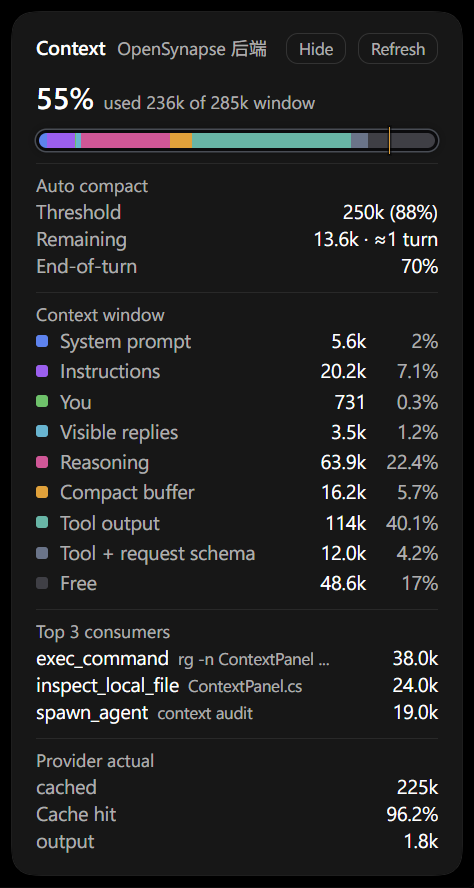
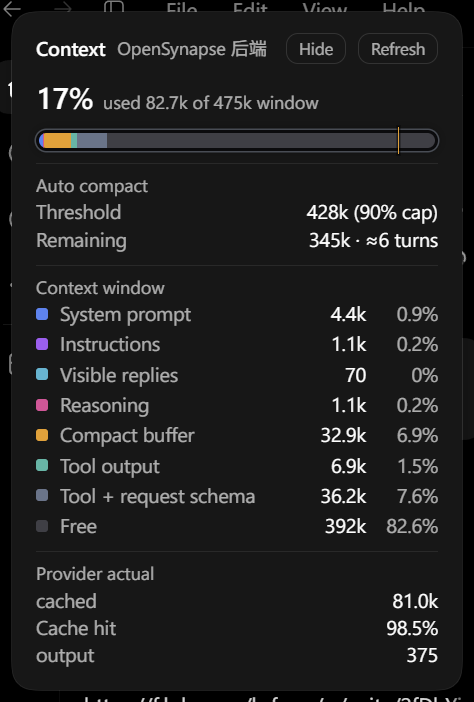
Remove Top 3 context consumers for v1.2.3

diff --git a/context-panel.js b/context-panel.js
@@ -15,7 +15,7 @@
  */
 (() => {
   "use strict";
-  const VERSION = "35";
+  const VERSION = "36";
   const PANEL_ID = "codex-context-panel";
   const helperConfig = __HELPER_CONFIG__;
   if (location.href.includes('avatar-overlay') || location.href.includes('quick-chat')) return;
@@ -43,7 +43,6 @@
       cap: "90% cap",
       atLimit: "at limit",
       turns: (n) => `≈${n} ${n === 1 ? "turn" : "turns"}`,
-      top: "Top 3 consumers",
       unavailable: "Context helper unavailable",
       provider: "Provider actual",
       cached: "cached", cacheHit: "Cache hit", output: "output",
@@ -63,7 +62,6 @@
       cap: "90% 上限",
       atLimit: "已到阈值",
       turns: (n) => `≈${n} 轮`,
-      top: "占用 Top 3",
       unavailable: "无法连接上下文助手",
       provider: "Provider 实测",
       cached: "缓存", cacheHit: "缓存命中", output: "输出",
@@ -75,11 +73,6 @@
   const t = () => copy[locale()];
 
   const num = (n) => (n == null ? "—" : n >= 1000 ? (n / 1000).toFixed(n >= 100000 ? 0 : 1) + "k" : String(n));
-  const shortDetail = (detail) => {
-    const value = String(detail || "");
-    if (/^(?:[A-Za-z]:[\\/]|\\\\|\/)/.test(value)) return value.split(/[\\/]/).filter(Boolean).at(-1) || value;
-    return value;
-  };
 
   // ---- native official number -------------------------------------------
   const nativeUsage = () => {
@@ -148,15 +141,6 @@
     [data-codex-context-panel] .ccp-kv { display: flex; justify-content: space-between; gap: 10px; }
     [data-codex-context-panel] .ccp-kv span:first-child { color: var(--color-text-secondary, rgba(255,255,255,.65)); }
     [data-codex-context-panel] .ccp-kv span:last-child { font-variant-numeric: tabular-nums; }
-    [data-codex-context-panel] .ccp-consumer-head { display: flex; align-items: baseline; gap: 6px; min-width: 0; }
-    [data-codex-context-panel] .ccp-consumer-head .ccp-name {
-      color: var(--color-text-primary, #fff); flex: none; max-width: 48%;
-      overflow: hidden; text-overflow: ellipsis; white-space: nowrap;
-    }
-    [data-codex-context-panel] .ccp-detail {
-      color: var(--color-text-secondary, rgba(255,255,255,.65)); font-size: 11px; flex: 1;
-      min-width: 0; overflow: hidden; text-overflow: ellipsis; white-space: nowrap;
-    }
   `;
   // Replace any earlier copy so a re-injection picks up new styles.
   document.getElementById(style.id)?.remove();
@@ -236,9 +220,6 @@
     section.appendChild(legend);
     details.appendChild(section);
 
-    const top = el("div", "ccp-section ccp-top");
-    details.appendChild(top);
-
     const provider = el("div", "ccp-section ccp-provider");
     provider.appendChild(el("div", "ccp-sub", t().provider));
     details.appendChild(provider);
@@ -246,7 +227,7 @@
     card.appendChild(details);
 
     return {
-      card, details, collapse, sub, big, label, meter, mark, legend, auto, top, provider,
+      card, details, collapse, sub, big, label, meter, mark, legend, auto, provider,
     };
   };
 
@@ -266,8 +247,6 @@
       refs.label.textContent = text.unavailable;
       refs.legend.replaceChildren();
       refs.auto.replaceChildren(el("div", "ccp-sub", text.auto));
-      refs.top.replaceChildren();
-      refs.top.hidden = true;
       refs.mark.style.display = "none";
       refs.provider.replaceChildren(el("div", "ccp-sub", text.provider));
       return;
@@ -335,21 +314,6 @@
       row.appendChild(el("span", "ccp-val", num(band.tokens)));
       row.appendChild(el("span", "ccp-pct", band.pct + "%"));
       refs.legend.appendChild(row);
-    }
-
-    const topItems = Array.isArray(data.topItems) ? data.topItems.filter(item => item && item.tokens > 0) : [];
-    refs.top.replaceChildren(el("div", "ccp-sub", text.top));
-    refs.top.hidden = topItems.length === 0;
-    for (const item of topItems.slice(0, 3)) {
-      const head = el("div", "ccp-consumer-head");
-      head.appendChild(el("span", "ccp-name", locale() === "zh" ? (item.zh || item.label) : (item.label || item.zh)));
-      if (item.detail) {
-        const detail = el("span", "ccp-detail", shortDetail(item.detail));
-        detail.title = item.detail;
-        head.appendChild(detail);
-      }
-      head.appendChild(el("span", "ccp-val", num(item.tokens)));
-      refs.top.appendChild(head);
     }
 
     refs.provider.replaceChildren(el("div", "ccp-sub", text.provider));
@@ -426,7 +390,6 @@
       mark: card.querySelector(".ccp-mark"),
       legend: card.querySelector(".ccp-legend"),
       auto: card.querySelector(".ccp-auto"),
-      top: card.querySelector(".ccp-top"),
       provider: card.querySelector(".ccp-provider"),
     };
     applyCollapsed();

diff --git a/ContextPanel.cs b/ContextPanel.cs
@@ -33,13 +33,11 @@ internal static class ContextPanel
     private static readonly (string Key, string Label, string Zh, string Color) FreeBand = ("free", "Free", "剩余", "#3f3f46");
     private static readonly ConcurrentDictionary<string, ParseState> ParseCache = new(StringComparer.OrdinalIgnoreCase);
 
-    internal sealed record Turn(long? Ordinal, string Band, double Tokens, string? SubBand = null,
-        string? ToolName = null, string? ToolDetail = null, string? CallId = null, bool IsOutput = false);
+    internal sealed record Turn(long? Ordinal, string Band, double Tokens, string? SubBand = null);
     internal sealed record KeptTurn(long? Ordinal, string Body, string Band);
     internal sealed record SessionMeta(string Id, string Cwd, string BaseInstructions);
     internal sealed record Usage(long? InputTokens, long? CachedInputTokens, long? OutputTokens, long? ReasoningOutputTokens, long? ContextWindow, long? TotalTokens);
     internal sealed record Compaction(long? Ordinal, int? WindowNumber, int RetainedUsers, int ReplacementItems, List<KeptTurn> Kept);
-    private sealed record ToolMeta(string Name, string Detail);
     private sealed class ParseState
     {
         internal long Offset;
@@ -47,7 +45,6 @@ internal static class ContextPanel
         internal SessionMeta? Meta;
         internal readonly List<Turn> Turns = [];
         internal readonly List<Compaction> Compactions = [];
-        internal readonly Dictionary<string, ToolMeta> ToolCalls = new(StringComparer.Ordinal);
         internal readonly Queue<double> Growth = new();
         internal Usage? Usage;
         internal long? LastTotalTokens;
@@ -60,7 +57,6 @@ internal static class ContextPanel
             Meta = null;
             Turns.Clear();
             Compactions.Clear();
-            ToolCalls.Clear();
             Growth.Clear();
             Usage = null;
             LastTotalTokens = null;
@@ -74,11 +70,10 @@ internal static class ContextPanel
     internal sealed record ContextProvider(long? InputTokens, long? CachedInputTokens, long? OutputTokens, long? ReasoningOutputTokens,
         long? ContextWindow, long? UsedTokens, double? UsedPct);
     internal sealed record ContextCompaction(long? Ordinal, int? WindowNumber, int RetainedUsers, int ReplacementItems);
-    internal sealed record ContextSlice(string Key, string Label, string Zh, long Tokens, string? Detail = null);
+    internal sealed record ContextSlice(string Key, string Label, string Zh, long Tokens);
     internal sealed record ContextSnapshot(string ThreadId, string Name, string UpdatedAt, IReadOnlyList<ContextBand> Bands,
-        IReadOnlyList<ContextSlice> InjectBands, IReadOnlyList<ContextSlice> TopItems, ContextProvider Provider,
-        IReadOnlyList<ContextCompaction> Compactions, int CompactionCount, long UntrackedTokens, double? RecentGrowthTokens,
-        bool HasConversation);
+        IReadOnlyList<ContextSlice> InjectBands, ContextProvider Provider, IReadOnlyList<ContextCompaction> Compactions,
+        int CompactionCount, long UntrackedTokens, double? RecentGrowthTokens, bool HasConversation);
 
     internal static string SessionsRoot() => Path.Combine(Environment.GetFolderPath(Environment.SpecialFolder.UserProfile), ".codex", "sessions");
 
@@ -142,7 +137,6 @@ internal static class ContextPanel
             bands.Add(new ContextBand(FreeBand.Key, FreeBand.Label, FreeBand.Zh, free,
                 Math.Round(free * 100.0 / windowTokens, 1), FreeBand.Color));
         var injectBands = InjectBreakdown(live, bands.FirstOrDefault(band => band.Key == "inject"));
-        var topItems = TopToolOutputs(live, scaled.GetValueOrDefault("tool"));
         var cwd = rollout.Meta?.Cwd ?? "";
         var name = cwd.Length == 0 ? "" : Path.GetFileName(cwd.TrimEnd('\\', '/'));
         return new ContextSnapshot(
@@ -151,7 +145,6 @@ internal static class ContextPanel
             LastWrite(path),
             bands,
             injectBands,
-            topItems,
             new ContextProvider(provider?.InputTokens, provider?.CachedInputTokens, provider?.OutputTokens,
                 provider?.ReasoningOutputTokens, window, used,
                 window is > 0 ? Math.Round(used * 100.0 / window.Value, 1) : null),
@@ -300,31 +293,6 @@ internal static class ContextPanel
         var drift = slices.Sum(slice => slice.Tokens) - injectBand.Tokens;
         if (drift != 0)
             slices[0] = slices[0] with { Tokens = Math.Max(0, slices[0].Tokens - drift) };
-        return slices;
-    }
-
-    internal static IReadOnlyList<ContextSlice> TopToolOutputs(IReadOnlyList<Turn> live, long toolTokens)
-    {
-        var raw = live.Where(turn => turn.Band == "tool" && turn.IsOutput && turn.Tokens > 0)
-            .GroupBy(turn => string.IsNullOrEmpty(turn.CallId) ? $"turn:{turn.Ordinal}" : turn.CallId!, StringComparer.Ordinal)
-            .Select(group =>
-            {
-                var first = group.First();
-                return (Key: group.Key, Name: first.ToolName ?? "Tool", first.ToolDetail, Tokens: group.Sum(turn => turn.Tokens));
-            })
-            .ToList();
-        var weight = raw.Sum(item => item.Tokens);
-        if (toolTokens <= 0 || weight <= 0) return [];
-        var slices = raw
-            .Select(item => new ContextSlice($"tool:{item.Key}", item.Name, item.Name,
-                (long)Math.Round(item.Tokens * toolTokens / weight, MidpointRounding.AwayFromZero),
-                string.IsNullOrWhiteSpace(item.ToolDetail) ? null : item.ToolDetail))
-            .Where(item => item.Tokens > 0)
-            .OrderByDescending(item => item.Tokens)
-            .Take(3)
-            .ToList();
-        var over = slices.Sum(item => item.Tokens) - toolTokens;
-        if (over > 0) slices[0] = slices[0] with { Tokens = Math.Max(0, slices[0].Tokens - over) };
         return slices;
     }
 
@@ -527,19 +495,11 @@ internal static class ContextPanel
                 }
                 else if (itemType is "function_call" or "custom_tool_call")
                 {
-                    var toolName = GetString(payload, "name") ?? "Tool";
-                    var detail = ToolDetail(payload, toolName);
-                    var callId = GetString(payload, "call_id");
-                    if (!string.IsNullOrEmpty(callId)) state.ToolCalls[callId] = new ToolMeta(toolName, detail);
-                    state.Turns.Add(new Turn(ordinal, "tool", TextTokens(ToolCallText(payload)),
-                        ToolName: toolName, ToolDetail: detail, CallId: callId));
+                    state.Turns.Add(new Turn(ordinal, "tool", TextTokens(ToolCallText(payload))));
                 }
                 else if (itemType is "function_call_output" or "custom_tool_call_output")
                 {
-                    var callId = GetString(payload, "call_id");
-                    var meta = callId is not null && state.ToolCalls.Remove(callId, out var found) ? found : null;
-                    state.Turns.Add(new Turn(ordinal, "tool", payload.TryGetProperty("output", out var output) ? OutputTokens(output) : 0,
-                        ToolName: meta?.Name, ToolDetail: meta?.Detail, CallId: callId, IsOutput: true));
+                    state.Turns.Add(new Turn(ordinal, "tool", payload.TryGetProperty("output", out var output) ? OutputTokens(output) : 0));
                 }
                 break;
             }
@@ -588,61 +548,6 @@ internal static class ContextPanel
         }
         if (!item.TryGetProperty("input", out var input)) return "";
         return input.ValueKind == JsonValueKind.String ? input.GetString() ?? "" : input.GetRawText();
-    }
-
-    private static string ToolDetail(JsonElement item, string name)
-    {
-        var text = ToolCallText(item);
-        if (string.IsNullOrEmpty(text)) return "";
-        string? detail = null;
-        try
-        {
-            using var document = JsonDocument.Parse(text);
-            var root = document.RootElement;
-            if (root.ValueKind == JsonValueKind.Object)
-            {
-                foreach (var key in new[] { "cmd", "file_path", "path", "query", "url", "prompt", "message" })
-                {
-                    if (!root.TryGetProperty(key, out var value)) continue;
-                    detail = value.ValueKind switch
-                    {
-                        JsonValueKind.String => value.GetString(),
-                        JsonValueKind.Array => string.Join(", ", value.EnumerateArray()
-                            .Where(part => part.ValueKind == JsonValueKind.String)
-                            .Select(part => part.GetString())),
-                        _ => value.GetRawText(),
-                    };
-                    if (!string.IsNullOrWhiteSpace(detail)) break;
-                    detail = null;
-                }
-                if (detail is null && root.TryGetProperty("pattern", out var pattern))
-                {
-                    detail = pattern.ValueKind switch
-                    {
-                        JsonValueKind.String => pattern.GetString(),
-                        JsonValueKind.Array => string.Join(", ", pattern.EnumerateArray()
-                            .Where(part => part.ValueKind == JsonValueKind.String)
-                            .Select(part => part.GetString())),
-                        _ => pattern.GetRawText(),
-                    };
-                }
-                if (string.IsNullOrWhiteSpace(detail) && root.TryGetProperty("files", out var files) && files.ValueKind == JsonValueKind.Array)
-                {
-                    detail = files.EnumerateArray()
-                        .Select(file => GetString(file, "path"))
-                        .FirstOrDefault(path => !string.IsNullOrWhiteSpace(path));
-                }
-            }
-        }
-        catch (JsonException) { }
-        if (string.IsNullOrWhiteSpace(detail) && name == "apply_patch")
-        {
-            var file = Regex.Match(text, @"\*\*\* (?:Update|Add|Delete) File: ([^\r\n]+)");
-            if (file.Success) detail = file.Groups[1].Value;
-        }
-        detail ??= text;
-        detail = Regex.Replace(detail, @"\s+", " ").Trim();
-        return detail.Length <= 90 ? detail : detail[..89] + "…";
     }
 
     private static string? GetString(JsonElement element, string name) =>
@@ -700,20 +605,6 @@ internal static class ContextPanel
         var injectSlices = InjectBreakdown([new Turn(1, "inject", 100, "skills"), new Turn(2, "inject", 50, "steer")], injectBand);
         Check("inject breakdown sums", injectSlices.Sum(slice => slice.Tokens), 150L);
         Check("inject breakdown keeps the largest first", injectSlices[0].Key, "skills");
-        using var patch = JsonDocument.Parse(JsonSerializer.Serialize(new { type = "function_call", name = "apply_patch", input = "*** Begin Patch\n*** Update File: src/foo.cs\n*** End Patch" }));
-        Check("patch detail keeps the file", ToolDetail(patch.RootElement, "apply_patch"), "src/foo.cs");
-        var toolSlices = TopToolOutputs(
-        [
-            new Turn(1, "tool", 200, ToolName: "inspect_local_file", ToolDetail: "A.cs", CallId: "a", IsOutput: true),
-            new Turn(2, "tool", 100, ToolName: "exec_command", ToolDetail: "dir", CallId: "b", IsOutput: true),
-            new Turn(3, "tool", 50, ToolName: "exec_command", CallId: "c"),
-            new Turn(4, "tool", 300, ToolName: "spawn_agent", ToolDetail: "audit", CallId: "d", IsOutput: true),
-        ], 600);
-        Check("top tool consumers keep three", toolSlices.Count, 3);
-        Check("top tool consumers are ordered", toolSlices[0].Tokens, 300L);
-        Check("top tool consumer name", toolSlices[0].Label, "spawn_agent");
-        Check("top tool consumer detail", toolSlices[0].Detail, "audit");
-        Check("tool call arguments are ignored", toolSlices.Any(slice => slice.Label == "exec_command" && slice.Tokens == 50), false);
 
         var temp = Path.Combine(Path.GetTempPath(), $"codex-context-{Guid.NewGuid():N}.jsonl");
         try
@@ -735,15 +626,6 @@ internal static class ContextPanel
             Check("incremental turns", cached.Turns.Count, full.Turns.Count);
             Check("incremental compaction count", cached.Compactions.Count, full.Compactions.Count);
             Check("initial parse", first.Turns.Count, 2);
-            var call = JsonSerializer.Serialize(new { type = "response_item", ordinal = 6, payload = new { type = "function_call", name = "exec_command", arguments = "{\"cmd\":\"dir\"}", call_id = "call_1" } });
-            var output = JsonSerializer.Serialize(new { type = "response_item", ordinal = 7, payload = new { type = "function_call_output", call_id = "call_1", output = new string('c', 40) } });
-            File.AppendAllText(temp, call + "\n" + output + "\n");
-            var withTool = ReadRolloutCached(temp);
-            var outputTurn = withTool.Turns.Single(turn => turn.IsOutput);
-            Check("tool output keeps its name", outputTurn.ToolName, "exec_command");
-            Check("tool output keeps its detail", outputTurn.ToolDetail, "dir");
-            var parsedTop = TopToolOutputs(LiveWindow(withTool.Turns, []), (long)withTool.Turns.Where(turn => turn.Band == "tool").Sum(turn => turn.Tokens));
-            Check("parsed top tool output", parsedTop[0].Label, "exec_command");
         }
         finally { try { File.Delete(temp); } catch { } }
 
@@ -765,8 +647,6 @@ internal static class ContextPanel
                 Check("real rollout full window adds up", context.Bands.Sum(band => band.Tokens), context.Provider.ContextWindow);
                 Check("real rollout provider percent", context.Provider.UsedPct,
                     Math.Round(context.Provider.UsedTokens.Value * 100.0 / context.Provider.ContextWindow.Value, 1));
-                var toolBand = context.Bands.FirstOrDefault(band => band.Key == "tool")?.Tokens ?? 0;
-                Check("real rollout top tools fit the tool band", context.TopItems.Sum(item => item.Tokens) <= toolBand, true);
                 checkedRollouts++;
             }
         }

diff --git a/README.md b/README.md
@@ -8,9 +8,9 @@
 
 ### 当前版本
 
-首个公开版本：`v1.0.0`；当前版本：`v1.2.2`
+首个公开版本：`v1.0.0`；当前版本：`v1.2.3`
 
-`v1.2.0` 加入上下文窗口面板和 `/context` 接口；`v1.2.1` 让面板标题跟随会话切换、进度条随轮询重绘，并接入 Voice 设置里的面板开关；`v1.2.2` 增加占用 Top 3、自动压缩阈值与剩余轮数估算、Provider 缓存命中率。
+`v1.2.0` 加入上下文窗口面板和 `/context` 接口；`v1.2.1` 让面板标题跟随会话切换、进度条随轮询重绘，并接入 Voice 设置里的面板开关；`v1.2.2` 增加自动压缩阈值、剩余轮数估算和 Provider 缓存命中率；`v1.2.3` 移除实验性的占用 Top 3 区块。
 
 已在 ChatGPT Desktop（Codex）客户端 `26.1016.8120.0`（Microsoft Store 包 `OpenAI.Codex_26.1016.8120.0_x64__2p2nqsd0c76g0`）验证注入链路、听写传输和上下文面板。启动时会等待 CDP 调试端点真正可用；失败的启动实例会在重试前清理。注入补丁会先等客户端首屏加载完成再触发 `Page.reload`，避免打断客户端自身那次 `loadURL` 而弹出 “ChatGPT failed to start.”。客户端更新后，注入点可能需要重新验证。会话标题生成默认关闭；需要时可在 Voice 设置中选择自定义接口或当前对话模型接管。
 
@@ -84,7 +84,6 @@ Helper 启动后会在 Codex 右栏原生摘要面板旁挂上 Context 面板，
 - 进度条表示整个 context window：彩色段按转录体积分摊已用部分，橙色 “Compact buffer” 是最后一次压缩的 `replacement_history`，深灰 “Free” 是窗口里尚未使用的空间。所有段百分比都以窗口总量为分母；图片按像素计价。
 - “Instructions” 是 developer 角色的注入指令：app context、skills 指令、每轮 user steer、模型切换、Ponytail、协作模式和时间上下文。
 - “Tool + request schema” 是 provider 总量减去已解析内容后的差额。它包含工具 schema 和请求脚手架；rollout 不保存两者的拆分，所以面板合并显示。分页会话的旧页内容由最近一次压缩缓冲覆盖。
-- “占用 Top 3” 按 `call_id` 合并当前有效窗口里的工具输出，显示最大的三项工具名、参数摘要和折算 token；压缩前的调用不计入。
 - “自动压缩” 显示 Codex 的有效自动压缩阈值：配置值低于窗口的 90% 时用配置值，否则用 90% 上限。进度条上的竖线标出阈值，剩余 token 和轮数按最近 5 个已完成回合的增量估算；“回合结束” 单独显示 `model_post_turn_compact_threshold_percent`。
 - “缓存命中” 是最近一次 provider 统计里的 `cached_input_tokens / input_tokens`，用于判断中转 API 的实际缓存收益。
 - 分页会话读取最新一页 rollout，不会拿父页的旧上下文来显示。
@@ -130,9 +129,9 @@ Unlocks native Dictation for API-key sessions in Codex Desktop for Windows and f
 
 ### Current release
 
-First public release: `v1.0.0`; current release: `v1.2.2`
+First public release: `v1.0.0`; current release: `v1.2.3`
 
-`v1.2.0` added the context-window panel and its `/context` endpoint. `v1.2.1` makes the panel title follow thread switches within one second, keeps the meter redrawing on the five-second poll, and gates `/context` behind the `Context panel` Voice switch. `v1.2.2` adds Top 3 tool-output consumers, the effective auto-compaction threshold with remaining-turn estimates, and provider cache-hit rate.
+`v1.2.0` added the context-window panel and its `/context` endpoint. `v1.2.1` makes the panel title follow thread switches within one second, keeps the meter redrawing on the five-second poll, and gates `/context` behind the `Context panel` Voice switch. `v1.2.2` adds the effective auto-compaction threshold with remaining-turn estimates and provider cache-hit rate. `v1.2.3` removes the experimental Top 3 consumers block.
 
 Injection, dictation transport, and the context panel were validated against ChatGPT Desktop (Codex) client version `26.1016.8120.0` (Microsoft Store package `OpenAI.Codex_26.1016.8120.0_x64__2p2nqsd0c76g0`). Startup waits for the CDP endpoint and cleans up a failed launch instance before retrying. The bundle patch now waits for the client's first page load to complete before issuing `Page.reload`, so it no longer aborts the client's own `loadURL` and triggers the "ChatGPT failed to start." dialog. Injection points may need to be revalidated after a client update. Thread-title routing is off by default; choose a custom endpoint or the current conversation model in Voice settings to take over.
 
@@ -206,7 +205,6 @@ Once the Helper starts, a Context panel appears next to Codex's native summary p
 - The meter represents the whole context window: colored bands split the transcript's used portion, the orange "Compact buffer" is the last compaction's `replacement_history`, and the dark "Free" band is the unused remainder. Every percentage uses the window total as its denominator; images are priced by pixels.
 - "Instructions" covers developer-role messages: app context, skills instructions, per-turn user steer, model switch, Ponytail, collaboration mode, and time context.
 - "Tool + request schema" is the provider total minus the parsed rollout content. It contains tool schemas and request scaffolding; the rollout does not preserve their split, so the panel shows them together. Prior pages in a paginated thread are covered by the latest compact buffer.
-- "Top 3 consumers" merges tool outputs by `call_id` in the live window and shows the three largest tool names, argument summaries, and scaled tokens. Pre-compaction calls are excluded.
 - "Auto compact" shows Codex's effective automatic-compaction threshold: a configured limit below the window's 90% cap wins; otherwise the 90% cap applies. The meter's vertical marker shows it, remaining tokens and turns use the latest five completed-turn deltas, and "End-of-turn" shows `model_post_turn_compact_threshold_percent` separately.
 - "Cache hit" is `cached_input_tokens / input_tokens` from the latest provider usage, useful for judging relay-API cache savings.
 - Paginated threads read the newest rollout page, not the parent page.
